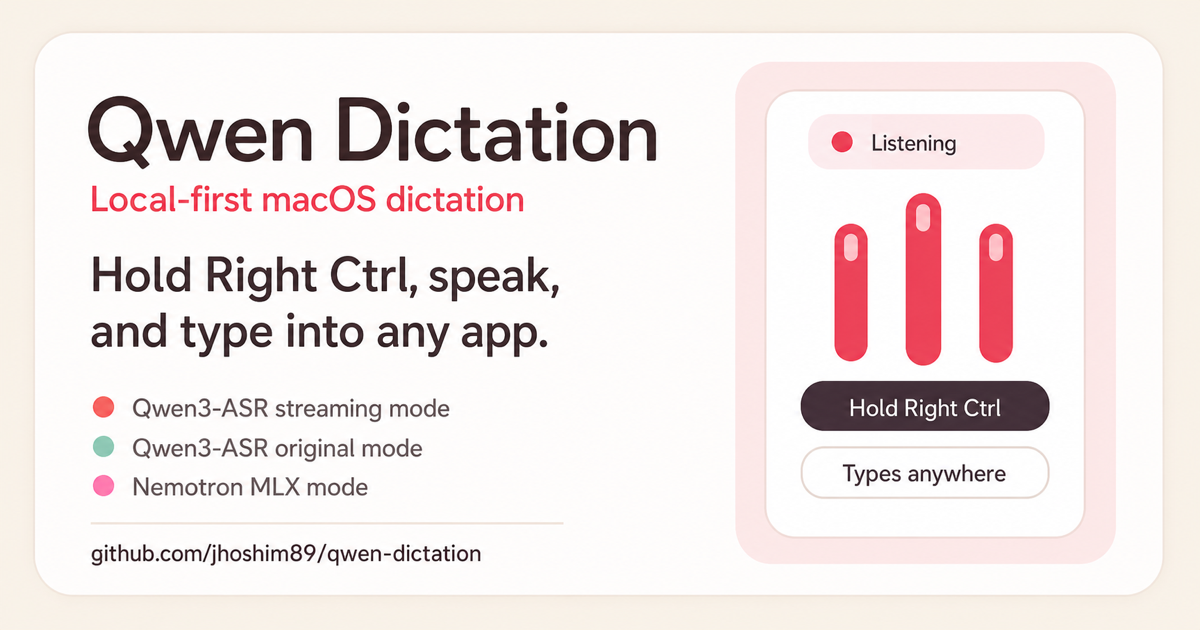
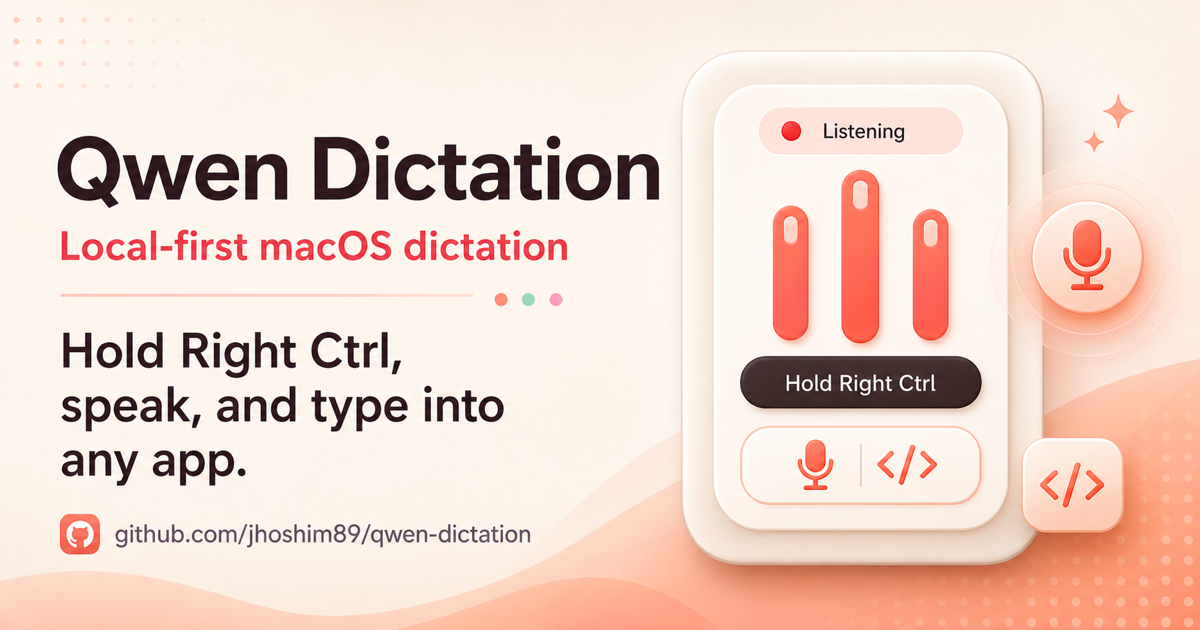
docs: deploy Imagen homepage preview

diff --git a/index.html b/index.html
@@ -17,16 +17,16 @@
   <style>
     :root {
       color-scheme: light;
-      --ink: #19181b;
-      --muted: #625c66;
-      --line: #ded8df;
-      --paper: #fffaf7;
-      --rose: #c3215a;
-      --berry: #811d4a;
-      --mint: #8fd1bd;
-      --gold: #e6b65f;
-      --night: #24212a;
-      font-family: Inter, ui-sans-serif, system-ui, -apple-system, BlinkMacSystemFont, "Segoe UI", sans-serif;
+      --ink: #422e35;
+      --muted: #836c74;
+      --line: #eaddd8;
+      --paper: #f7f1e9;
+      --rose: #e84762;
+      --berry: #d13652;
+      --mint: #fbe5ea;
+      --gold: #ffb3bf;
+      --night: #422e35;
+      font-family: "Pretendard Variable", Pretendard, ui-sans-serif, system-ui, -apple-system, BlinkMacSystemFont, "Segoe UI", sans-serif;
     }
     * { box-sizing: border-box; }
     body {
@@ -40,10 +40,7 @@
       min-height: 88vh;
       display: grid;
       grid-template-rows: auto 1fr;
-      background:
-        linear-gradient(90deg, rgba(255,250,247,.97) 0%, rgba(255,250,247,.88) 44%, rgba(255,250,247,.4) 100%),
-        url("hud-current-preview.svg") right 15% center / min(58vw, 760px) auto no-repeat,
-        var(--paper);
+      background: var(--paper);
       border-bottom: 1px solid var(--line);
     }
     nav {
@@ -72,6 +69,8 @@
       width: min(1120px, calc(100% - 40px));
       margin: 0 auto;
       display: grid;
+      grid-template-columns: minmax(0, 0.9fr) minmax(360px, 0.95fr);
+      gap: clamp(28px, 5vw, 72px);
       align-items: center;
       padding: 56px 0 84px;
     }
@@ -124,6 +123,12 @@
       font-size: 14px;
       color: var(--muted);
     }
+    .hero-preview {
+      width: 100%;
+      border: 1px solid var(--line);
+      border-radius: 8px;
+      box-shadow: 0 18px 45px rgba(36,33,42,.08);
+    }
     main section {
       padding: 72px clamp(20px, 5vw, 72px);
     }
@@ -134,6 +139,7 @@
       align-items: center;
       max-width: 1120px;
       margin: 0 auto;
+      min-width: 0;
     }
     h2 {
       margin: 0 0 18px;
@@ -188,6 +194,8 @@
       border-bottom: 1px solid var(--line);
     }
     .commands {
+      width: 100%;
+      min-width: 0;
       max-width: 760px;
       margin: 28px 0 0;
       border: 1px solid var(--line);
@@ -204,6 +212,7 @@
       overflow-x: auto;
       white-space: nowrap;
     }
+    .split > * { min-width: 0; }
     .commands div:first-child { border-top: 0; }
     .status-note {
       max-width: 760px;
@@ -227,12 +236,13 @@
     @media (max-width: 860px) {
       .hero {
         min-height: auto;
-        background:
-          linear-gradient(180deg, rgba(255,250,247,.98) 0%, rgba(255,250,247,.95) 55%, rgba(255,250,247,.75) 100%),
-          url("hud-current-preview.svg") center bottom 28px / min(92vw, 560px) auto no-repeat,
-          var(--paper);
+        background: var(--paper);
       }
-      .hero-inner { padding-bottom: 260px; }
+      .hero-inner {
+        grid-template-columns: 1fr;
+        padding-bottom: 48px;
+      }
+      .hero-preview { order: -1; }
       .split, .features { grid-template-columns: 1fr; }
       nav { align-items: flex-start; }
       .navlinks { gap: 12px; }
@@ -260,6 +270,7 @@
         </div>
         <p class="star-note">Developer MVP. A GitHub star helps other local-ASR Mac users find it.</p>
       </div>
+      <img class="hero-preview" src="social-preview.png?v=20260701-imagen" alt="Qwen Dictation social preview">
     </div>
   </header>
   <main>